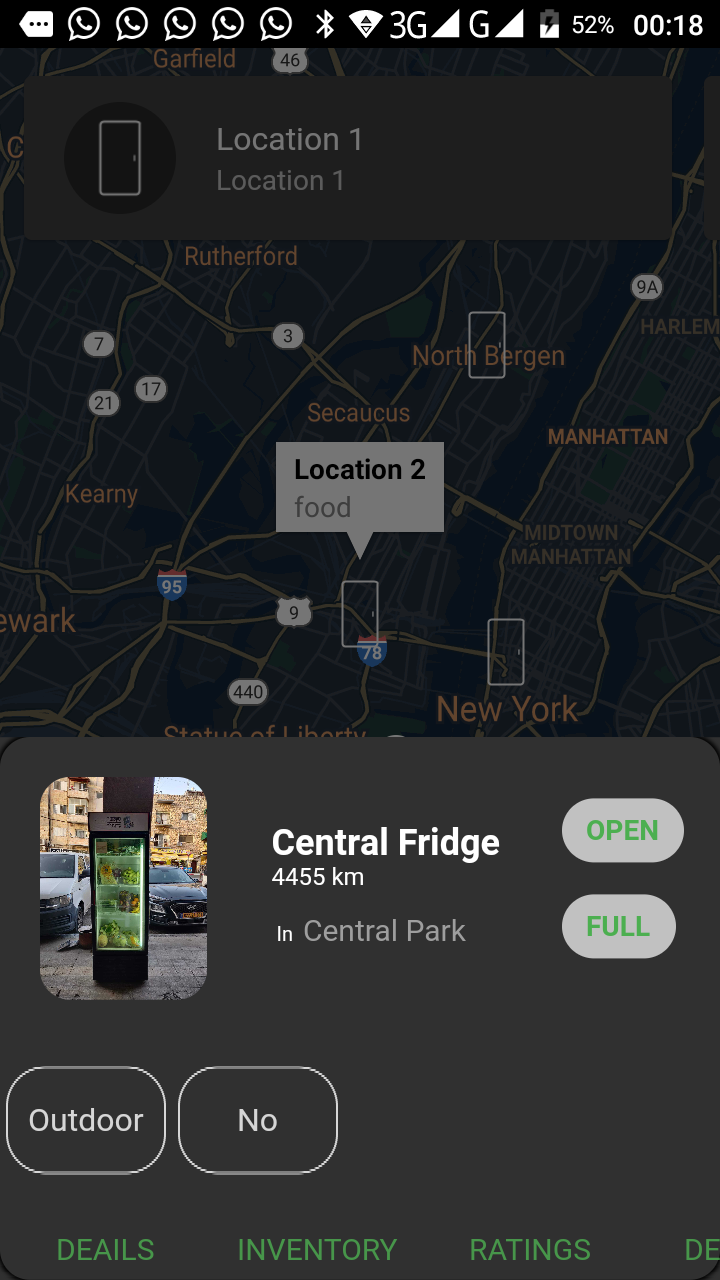
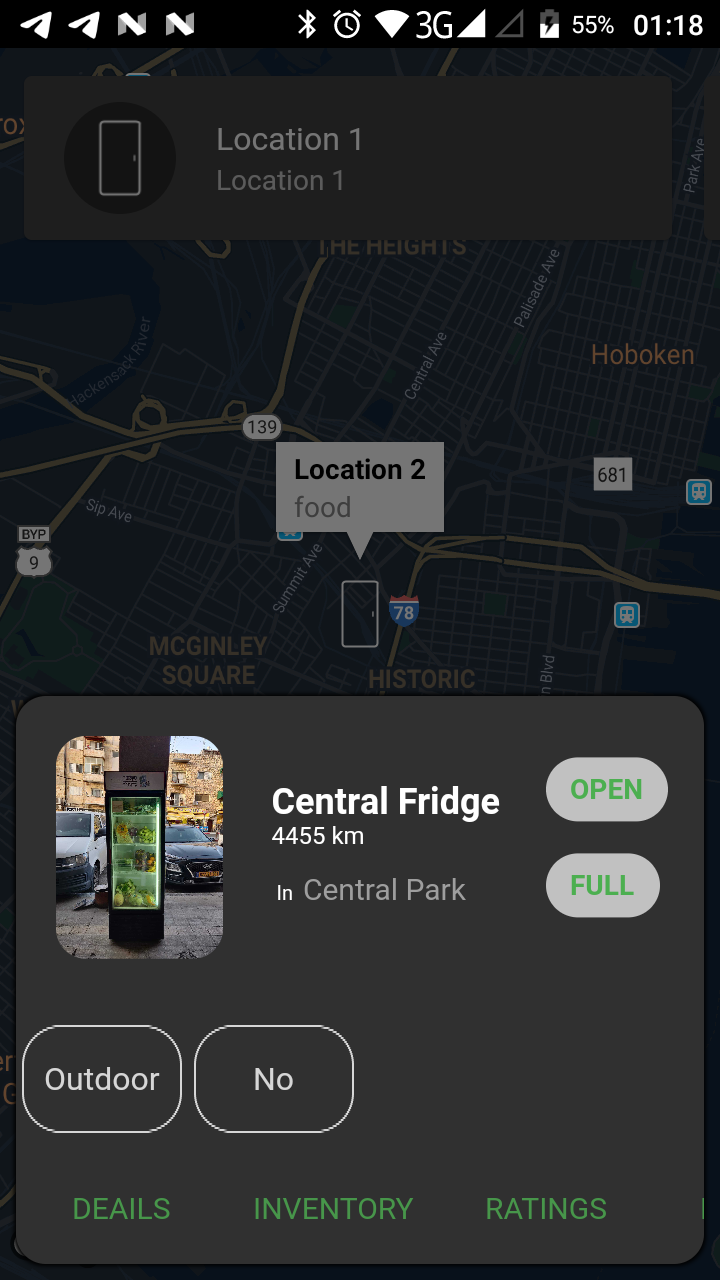
Tab codes before Vince reverted

diff --git a/lib/screens/components/details_card.dart b/lib/screens/components/details_card.dart
@@ -13,102 +13,100 @@ class DetailsCard extends StatelessWidget {
   @override
   Widget build(BuildContext context) {
     return Padding(
-      padding: const EdgeInsets.all(8.0),
-      child: SingleChildScrollView(
-        child: new Container(
-          child: Wrap(
-            direction: Axis.horizontal,
-            alignment: WrapAlignment.spaceBetween,
-            crossAxisAlignment: WrapCrossAlignment.center,
-            children: <Widget>[
-              Padding(
-                padding: EdgeInsets.fromLTRB(20, 20, 10, 10),
-                child: ClipRRect(
-                  borderRadius: new BorderRadius.circular(15.0),
-                  child: Image.asset(
-                    'assets/image_1.jpg',
-                    scale: 15,
-                    fit: BoxFit.fill,
-                  ),
+      padding: const EdgeInsets.symmetric(horizontal: 12.0, vertical: 12.0),
+      child: new Container(
+        child: Wrap(
+          direction: Axis.horizontal,
+          alignment: WrapAlignment.spaceBetween,
+          crossAxisAlignment: WrapCrossAlignment.center,
+          children: <Widget>[
+            Padding(
+              padding: EdgeInsets.fromLTRB(20, 20, 10, 10),
+              child: ClipRRect(
+                borderRadius: new BorderRadius.circular(15.0),
+                child: Image.asset(
+                  'assets/image_1.jpg',
+                  scale: 15,
+                  fit: BoxFit.fill,
                 ),
               ),
-              Wrap(
-                direction: Axis.horizontal,
-                crossAxisAlignment: WrapCrossAlignment.start,
+            ),
+            Wrap(
+              direction: Axis.horizontal,
+              crossAxisAlignment: WrapCrossAlignment.start,
+              children: [
+                Padding(
+                  padding: const EdgeInsets.only(top: 8),
+                  child: Wrap(
+                    direction: Axis.vertical,
+                    children: [
+                      Text(
+                        "Central Fridge",
+                        style: TextStyle(
+                            fontSize: 18, fontWeight: FontWeight.bold),
+                      ),
+                      Text(
+                        "${distance.round()} km",
+                        style: TextStyle(fontSize: 12),
+                      ),
+                      RichText(
+                        text: TextSpan(
+                          text: '\n In  ',
+                          style: TextStyle(fontSize: 10),
+                          children: <TextSpan>[
+                            TextSpan(
+                              text: 'Central Park',
+                              style: TextStyle(
+                                  color: Colors.grey[500],
+                                  fontSize: 15,
+                                  fontWeight: FontWeight.normal),
+                            ),
+                          ],
+                        ),
+                      )
+                    ],
+                  ),
+                ),
+              ],
+            ),
+            Padding(
+              padding: const EdgeInsets.only(left: 8, right: 18),
+              child: Wrap(
+                direction: Axis.vertical,
                 children: [
-                  Padding(
-                    padding: const EdgeInsets.only(top: 8),
-                    child: Wrap(
-                      direction: Axis.vertical,
-                      children: [
-                        Text(
-                          "Central Fridge",
-                          style: TextStyle(
-                              fontSize: 18, fontWeight: FontWeight.bold),
-                        ),
-                        Text(
-                          "${distance.round()} km",
-                          style: TextStyle(fontSize: 12),
-                        ),
-                        RichText(
-                          text: TextSpan(
-                            text: '\n In  ',
-                            style: TextStyle(fontSize: 10),
-                            children: <TextSpan>[
-                              TextSpan(
-                                text: 'Central Park',
-                                style: TextStyle(
-                                    color: Colors.grey[500],
-                                    fontSize: 15,
-                                    fontWeight: FontWeight.normal),
-                              ),
-                            ],
-                          ),
-                        )
-                      ],
-                    ),
+                  RawChip(
+                    backgroundColor: Colors.white70,
+                    labelStyle: TextStyle(
+                        color: Colors.green,
+                        fontSize: 14.0,
+                        fontWeight: FontWeight.bold),
+                    label: Text('OPEN'),
+                    onPressed: () {
+                      //set Alarm
+                    },
+                  ),
+                  RawChip(
+                    backgroundColor: Colors.white70,
+                    labelStyle: TextStyle(
+                        color: Colors.green,
+                        fontSize: 14.0,
+                        fontWeight: FontWeight.bold),
+                    label: Text('FULL'),
                   ),
                 ],
               ),
-              Padding(
-                padding: const EdgeInsets.only(left: 8, right: 18),
-                child: Wrap(
-                  direction: Axis.vertical,
-                  children: [
-                    RawChip(
-                      backgroundColor: Colors.white70,
-                      labelStyle: TextStyle(
-                          color: Colors.green,
-                          fontSize: 14.0,
-                          fontWeight: FontWeight.bold),
-                      label: Text('OPEN'),
-                      onPressed: () {
-                        //set Alarm
-                      },
-                    ),
-                    RawChip(
-                      backgroundColor: Colors.white70,
-                      labelStyle: TextStyle(
-                          color: Colors.green,
-                          fontSize: 14.0,
-                          fontWeight: FontWeight.bold),
-                      label: Text('FULL'),
-                    ),
-                  ],
-                ),
-              ),
-              TagsList(fridge.tags.map((a) => a.toString()).toList()),
-              SizedBox(height: 100),
-              BottomTabsList(),
-            ],
-          ),
-          decoration: BoxDecoration(
-            color: Theme.of(context).canvasColor,
-            borderRadius: BorderRadius.all(Radius.circular(15)),
-            boxShadow: [
-              BoxShadow(blurRadius: 1, color: Colors.black, spreadRadius: 1)
-            ],
-          ),
+            ),
+            TagsList(fridge.tags.map((a) => a.toString()).toList()),
+            SizedBox(height: 100),
+            BottomTabsList(),
+          ],
+        ),
+        decoration: BoxDecoration(
+          color: Theme.of(context).canvasColor,
+          borderRadius: BorderRadius.all(Radius.circular(15)),
+          boxShadow: [
+            BoxShadow(blurRadius: 1, color: Colors.black, spreadRadius: 1)
+          ],
         ),
       ),
     );

diff --git a/lib/screens/components/donate_card.dart b/lib/screens/components/donate_card.dart
@@ -1,0 +1,87 @@
+import 'package:flutter/material.dart';
+
+class DonateCard extends StatelessWidget {
+  @override
+  Widget build(BuildContext context) {
+    return Padding(
+      padding: const EdgeInsets.symmetric(horizontal: 12.0, vertical: 12.0),
+      child: Container(
+        decoration: BoxDecoration(
+          color: Theme.of(context).canvasColor,
+          borderRadius: BorderRadius.all(Radius.circular(15)),
+          boxShadow: [
+            BoxShadow(blurRadius: 1, color: Colors.black, spreadRadius: 1)
+          ],
+        ),
+        child: Wrap(
+          direction: Axis.horizontal,
+          alignment: WrapAlignment.spaceBetween,
+          crossAxisAlignment: WrapCrossAlignment.center,
+          children: [
+            Padding(
+              padding: EdgeInsets.symmetric(horizontal: 12.0, vertical: 8.0),
+              child: Text(
+                'On the right in front of the gap',
+                style: TextStyle(
+                    color: Colors.grey[600],
+                    fontSize: 30,
+                    fontWeight: FontWeight.w600),
+              ),
+            ),
+            SizedBox(height: 242,),
+            DonateBottomTabsList(),
+          ],
+        ),
+      ),
+    );
+  }
+}
+
+class DonateBottomTabsList extends StatelessWidget {
+
+  final List<String> bottomTabs = [
+    "FRIDGE",
+    "SPACE",
+    "MONEY",
+    "FOOD",
+  ];
+
+
+  @override
+  Widget build(BuildContext context) {
+
+    return Container(
+      height: 30,
+      child: ListView.builder(
+        scrollDirection: Axis.horizontal,
+        itemCount: bottomTabs.length,
+        itemBuilder: (context, index) {
+
+          return BottomTabCard(bottomTab: bottomTabs[index]);
+        }
+      ),
+    );
+  }
+}
+
+class BottomTabCard extends StatelessWidget {
+  final String bottomTab;
+
+  const BottomTabCard({Key key, this.bottomTab}) : super(key: key);
+  @override
+  Widget build(BuildContext context) {
+
+    return InkWell(
+      child: Container(
+        width: 100,
+        margin: EdgeInsets.all(3),
+        alignment: Alignment.center,
+        child: Text(
+          bottomTab,
+          style: TextStyle(color: Colors.green.withOpacity(0.8), fontSize: 15),
+        ),
+      ),
+      onTap: () => print("${bottomTab.toString()}")
+    );
+  }
+}

diff --git a/lib/screens/components/comments_card.dart b/lib/screens/components/comments_card.dart
@@ -5,35 +5,33 @@ class CommentsCard extends StatelessWidget {
   @override
   Widget build(BuildContext context) {
     return Padding(
-      padding: const EdgeInsets.all(8.0),
-      child: SingleChildScrollView(
-        child: Container(
-          decoration: BoxDecoration(
-            color: Colors.amber,
-            borderRadius: BorderRadius.all(Radius.circular(15)),
-            boxShadow: [
-              BoxShadow(blurRadius: 1, color: Colors.black, spreadRadius: 1)
-            ],
-          ),
-          child: Wrap(
-            direction: Axis.horizontal,
-            alignment: WrapAlignment.spaceBetween,
-            crossAxisAlignment: WrapCrossAlignment.center,
-            children: [
-              Padding(
-                padding: EdgeInsets.symmetric(horizontal: 12.0, vertical: 12.0),
-                child: Text(
-                  'On the right in front of the gap',
-                  style: TextStyle(
-                      color: Colors.grey[600],
-                      fontSize: 30,
-                      fontWeight: FontWeight.w600),
-                ),
+      padding: const EdgeInsets.symmetric(horizontal: 12.0, vertical: 12.0),
+      child: Container(
+        decoration: BoxDecoration(
+          color: Colors.amber,
+          borderRadius: BorderRadius.all(Radius.circular(15)),
+          boxShadow: [
+            BoxShadow(blurRadius: 1, color: Colors.black, spreadRadius: 1)
+          ],
+        ),
+        child: Wrap(
+          direction: Axis.horizontal,
+          alignment: WrapAlignment.spaceBetween,
+          crossAxisAlignment: WrapCrossAlignment.center,
+          children: [
+            Padding(
+              padding: EdgeInsets.symmetric(horizontal: 12.0, vertical: 8.0),
+              child: Text(
+                'On the right in front of the gap',
+                style: TextStyle(
+                    color: Colors.grey[600],
+                    fontSize: 30,
+                    fontWeight: FontWeight.w600),
               ),
-              SizedBox(height: 242,),
-              BottomTabsList(),
-            ],
-          ),
+            ),
+            SizedBox(height: 242,),
+            BottomTabsList(),
+          ],
         ),
       ),
     );

diff --git a/lib/screens/components/buffet_map.dart b/lib/screens/components/buffet_map.dart
@@ -4,6 +4,7 @@ import 'package:buffetlocator/misc/helpers.dart';
 import 'package:buffetlocator/models/fridge_point.dart';
 import 'package:buffetlocator/screens/components/comments_card.dart';
 import 'package:buffetlocator/screens/components/details_card.dart';
+import 'package:buffetlocator/screens/components/donate_card.dart';
 import 'package:flutter/material.dart';
 import 'package:google_maps_flutter/google_maps_flutter.dart';
 
@@ -94,6 +95,7 @@ class _BuffetMapState extends State<BuffetMap> {
   
 
     showModalBottomSheet(
+      backgroundColor: Colors.transparent,
       enableDrag: true,
       context: context,
       builder: (context) => Container(
@@ -103,7 +105,8 @@ class _BuffetMapState extends State<BuffetMap> {
           fridge: fridge,
           distance: distance,
         ),
-        CommentsCard()
+        CommentsCard(),
+        DonateCard()
         ],
         ),
       )
